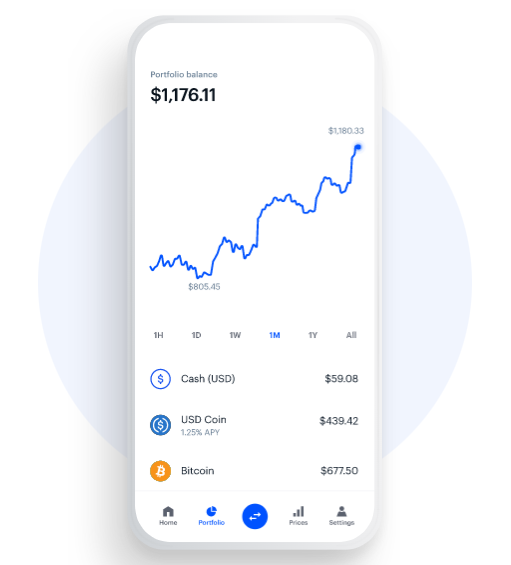
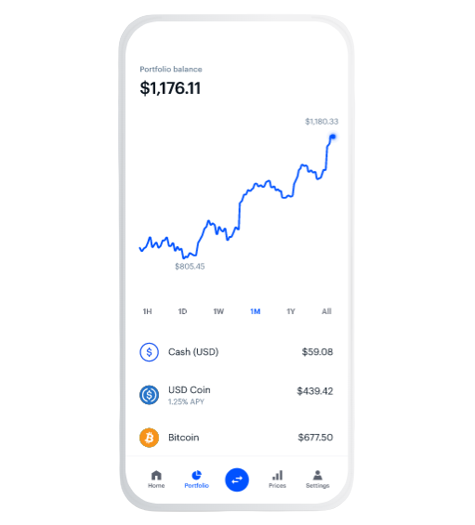
Adición y estilizado del footer de la página.

Changed region(s): [[0.1768, 0.0914, 0.7368, 1.0], [0.7368, 0.1829, 0.7663, 0.8229]]

diff --git a/index.html b/index.html
@@ -122,7 +122,7 @@
             </div>
           </div>
           <div class="image">
-            <img src="assets/img/carter.png" alt="carter" />
+            <img src="https://assets.coinbase.com/assets/coinbase-app.51b8f3dbe406092d16845f3e74870061.jpg" alt="carter" />
           </div>
         </div>
       </section>
@@ -213,7 +213,17 @@
           </div>
         </div>
       </section>
-      <section class="sec-footer-cta"></section>
+
+      <section class="sec-footer-cta">
+        <div class="footer-cta">
+          <h4 class="cta-title">Earn up to $7 worth of crypto</h4>
+          <p class="cta-description">
+            Discover how specific cryptocurrencies work - and get a bit of each
+            crypto to try out for yourself.
+          </p>
+          <button class="btn-main">Start earning</button>
+        </div>
+      </section>
     </main>
   </body>
   <script

diff --git a/sass/_globals.scss b/sass/_globals.scss
@@ -45,7 +45,7 @@ body {
 
     .home-img {
         img {
-            width: 110%;
+            width: 120%;
         }
     }
 }
@@ -174,6 +174,27 @@ body {
             flex: 1;
             border-top: 1px solid #ddd;
             margin: 0 1rem;
+        }
+    }
+}
+
+.sec-footer-cta {
+    background-color: components.$color-footer;
+    padding: 5rem;
+    background-image: url("https://assets.coinbase.com/assets/earn-upsell-desktop.7ac67bac6fdea56ce4ca11961fc8f95d.jpg");
+    background-repeat: no-repeat;
+    background-position: 100%;
+    background-size: contain;
+
+    .footer-cta {
+        width: 50%;
+
+        .cta-title {
+            font-size: 2rem;
+        }
+    
+        .cta-description {
+            font-size: 1.1rem;
         }
     }
 }

diff --git a/css/styles.css b/css/styles.css
@@ -138,7 +138,7 @@ body {
   font-size: 3rem;
 }
 .sec-home .home-img img {
-  width: 110%;
+  width: 120%;
 }
 
 .sec-features {
@@ -252,6 +252,24 @@ body {
   flex: 1;
   border-top: 1px solid #ddd;
   margin: 0 1rem;
+}
+
+.sec-footer-cta {
+  background-color: #f4f8fe;
+  padding: 5rem;
+  background-image: url("https://assets.coinbase.com/assets/earn-upsell-desktop.7ac67bac6fdea56ce4ca11961fc8f95d.jpg");
+  background-repeat: no-repeat;
+  background-position: 100%;
+  background-size: contain;
+}
+.sec-footer-cta .footer-cta {
+  width: 50%;
+}
+.sec-footer-cta .footer-cta .cta-title {
+  font-size: 2rem;
+}
+.sec-footer-cta .footer-cta .cta-description {
+  font-size: 1.1rem;
 }
 
 /*# sourceMappingURL=styles.css.map */

diff --git a/sass/_components.scss b/sass/_components.scss
@@ -1,4 +1,5 @@
 $color-main: #0075ff;
+$color-footer: #f4f8fe;
 
 /* 
     Los mixins son pedazos de código que se repiten en varios
